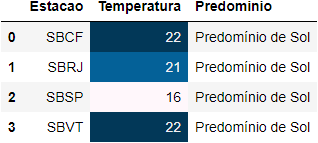
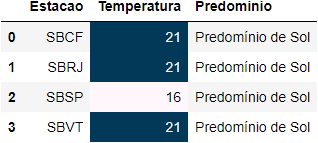
0.3.8 - Clima Sudeste
- Correção do Banco de Dados
- Inclusão de Gráfico no HTML

Changed region(s): [[0.283, 0.3636, 0.5943, 0.5874], [0.5377, 0.8392, 0.566, 0.9231], [0.5377, 0.2238, 0.566, 0.3077]]

diff --git a/02. ESTUDOS_DIVERSOS/03. CLIMA_SUDESTE/paginas/templates/paginas/index.html b/02. ESTUDOS_DIVERSOS/03. CLIMA_SUDESTE/paginas/templates/paginas/index.html
@@ -5,10 +5,14 @@
 
     <img src="{%  static 'paginas/img/registro.jpg' %}" style="width:640px; height: auto">
     <p>
-        SBBF é Belo Horizonte/MG |
-        SBRJ é Rio de Janeiro/RJ |
-        SBSP é São Paulo/SP |
-        SBVT é Vitória/ES
+        SBBF -> Belo Horizonte/MG |
+        SBRJ -> Rio de Janeiro/RJ |
+        SBSP -> São Paulo/SP |
+        SBVT -> Vitória/ES
+    </p>
+    <img src="{%  static 'paginas/img/gráfico.jpg' %}" style="width:70em; height: auto">
+    <p>
+        Eis aqui um gráfico representando as temperaturas registradas no momento...
     </p>
 
 {%endblock%}

diff --git a/02. ESTUDOS_DIVERSOS/03. CLIMA_SUDESTE/Atualizacao/main.py b/02. ESTUDOS_DIVERSOS/03. CLIMA_SUDESTE/Atualizacao/main.py
@@ -37,15 +37,29 @@ cursor.execute('CREATE TABLE IF NOT EXISTS previsao_tempo ('
                ')')
 teste = {}  # Salva um dicionário teste com temperatura e estação.
 predominio = []  # Salva o predominio do momento.
+errado_predominio = ['PredomÃ\xadnio de Sol', 'Chuvas periÃ³dicas']  # predominio errado
 
 for i in range(0, 26):
     if root[i][0].text in codigos:
         teste[root[i][0].text] = root[i][3].text
-        predominio.append(root[i][5].text)
         
-        cursor.execute('INSERT INTO previsao_tempo (codigo, atualizacao, temperatura, ar_umido, a_tempo) '
-                       'VALUES (?, ?, ?, ?,?)', (dc_cid_cod[root[i][0].text], root[i][1].text, root[i][3].text,
-                                                 root[i][6].text, root[i][5].text))
+        if root[i][5].text == errado_predominio[0]:
+            predominio.append(root[i][5].text)
+            predominio_certo = 'Sol Predominante'
+            cursor.execute(
+                'INSERT INTO previsao_tempo (codigo, atualizacao, temperatura, ar_umido, a_tempo) VALUES (?, ?, ?, ?,?)'
+                , (dc_cid_cod[root[i][0].text], root[i][1].text, root[i][3].text, root[i][6].text, predominio_certo))
+        elif root[i][5].text == errado_predominio[1]:
+            predominio.append(root[i][5].text)
+            predominio_certo = 'Chuvas Casuais'
+            cursor.execute(
+                'INSERT INTO previsao_tempo (codigo, atualizacao, temperatura, ar_umido, a_tempo) VALUES (?, ?, ?, ?,?)'
+                , (dc_cid_cod[root[i][0].text], root[i][1].text, root[i][3].text, root[i][6].text, predominio_certo))
+        else:
+            predominio.append(root[i][5].text)
+            cursor.execute(
+                'INSERT INTO previsao_tempo (codigo, atualizacao, temperatura, ar_umido, a_tempo) VALUES (?, ?, ?,?,?)'
+                , (dc_cid_cod[root[i][0].text], root[i][1].text, root[i][3].text, root[i][6].text, root[i][5].text))
 conexao.commit()
 cursor.close()
 conexao.close()
@@ -64,13 +78,14 @@ df = pd.DataFrame(data=d)
 df['Temperatura'] = pd.to_numeric(df['Temperatura'])  # Converte para Integer
 print(df)
 
-opcoes_sim = ['sim', 'yes', 's']
-show_grafico = input('Digite "sim" para visualizar o gráfico?\n').lower()
+# opcoes_sim = ['sim', 'yes', 's']
+# show_grafico = input('Digite "sim" para visualizar o gráfico?\n').lower()
 # VISUALIZA O GRÁFICO
-if show_grafico in opcoes_sim:
-    grafico = df.groupby(df['Estacao'])['Temperatura'].sum().plot.barh(title='Temperatura', color='red',
+grafico = df.groupby(df['Estacao'])['Temperatura'].sum().plot.barh(title='Temperatura', color='red',
                                                                        figsize=(20, 5))
-    matplotlib.pyplot.show()
+plt.savefig('../paginas/static/paginas/img/gráfico.jpg')
+# matplotlib.pyplot.show() -- mostra o gráfico
+
 
 # SALVANDO UMA IMAGEM
 df_styled = df.style.background_gradient()

diff --git a/02. ESTUDOS_DIVERSOS/03. CLIMA_SUDESTE/Atualizacao/arquivo_csv.py b/02. ESTUDOS_DIVERSOS/03. CLIMA_SUDESTE/Atualizacao/arquivo_csv.py
@@ -11,4 +11,6 @@ df.to_csv(sep=',', index=False, path_or_buf='dad.csv')
 dff = pd.read_csv(filepath_or_buffer=r"dad.csv",
                   sep=',')
 # dff = dff['atualizacao'] = pd.to_datetime(dff['atualizacao'])
-print(dff)
+#print(dff)
+
+# print(dff.nlargest(3, "temperatura"))
